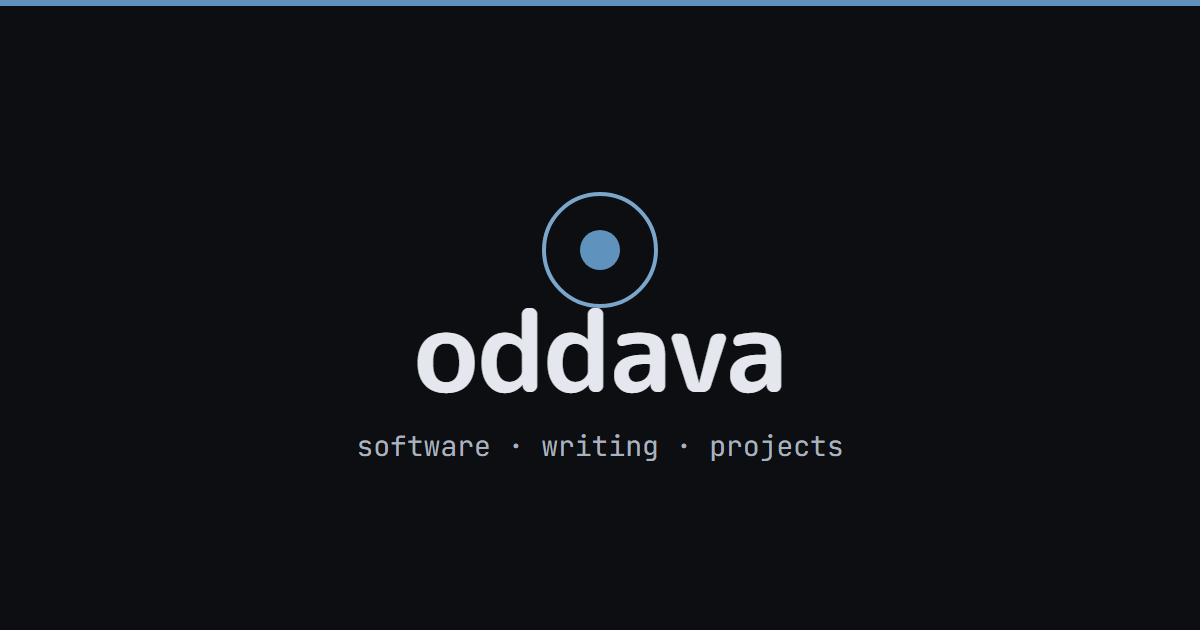
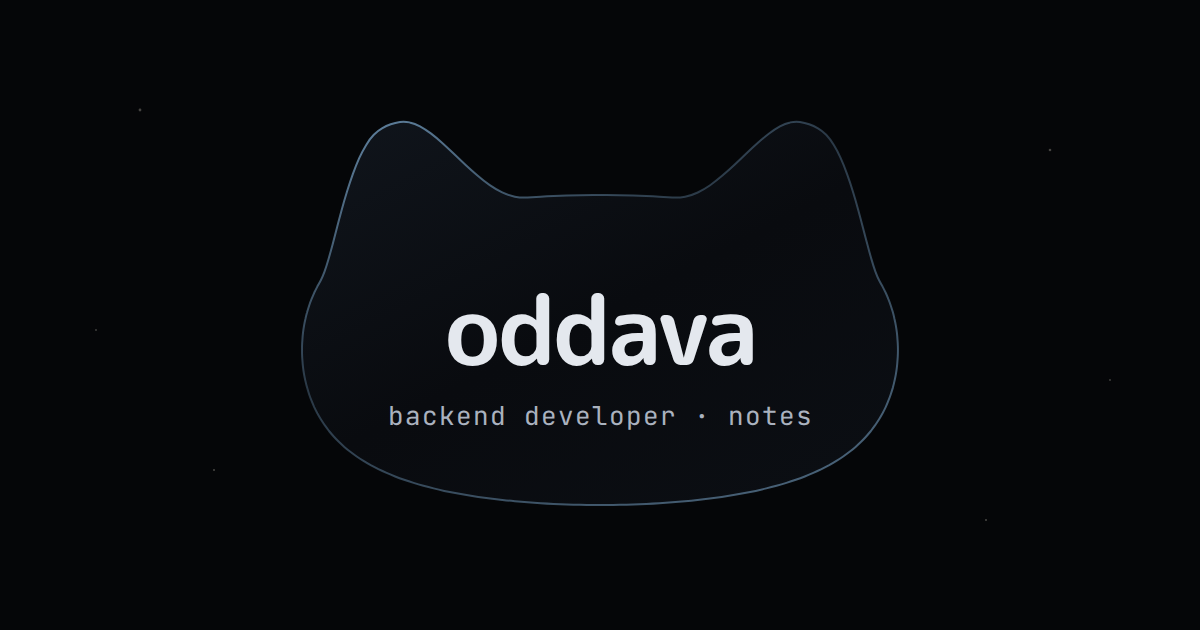
feat(site): describe the author one way across titles, meta and feed
Add SITE_ROLE and SITE_TITLE in lib/site.ts and derive the site
description, note fallback description and new NOTES_DESCRIPTION from
them, so every page, card and feed says the same thing.

- page titles use "Page — oddava"; the homepage uses SITE_TITLE
- homepage emits WebSite/Person JSON-LD linking the GitHub and X profiles
- RSS channel title and description use the shared copy
- error pages, about, links, notes, graph and tag pages get plain
  sentence-case titles and descriptions
- links profile bio and the default OG image follow the new role
- remove the /now page, which nothing links to any more

diff --git a/src/lib/site.ts b/src/lib/site.ts
@@ -1,8 +1,13 @@
 export const SITE_NAME = 'oddava';
+/** The one way the site describes its author; every page, card and feed reuses it. */
+export const SITE_ROLE = 'backend developer';
+/** The homepage title, and what search results and link previews lead with. */
+export const SITE_TITLE = `${SITE_NAME} — ${SITE_ROLE}`;
 export const SITE_URL = 'https://oddava.me';
-export const SITE_DESCRIPTION = 'the notebook i keep out in the open.';
+export const SITE_DESCRIPTION = `${SITE_NAME} is a ${SITE_ROLE}. Notes on the software I build, the books I read, and what I learn along the way.`;
 /** Stands in for a note that never wrote its own summary. */
-export const NOTE_FALLBACK_DESCRIPTION = 'a note from oddava’s digital garden.';
+export const NOTE_FALLBACK_DESCRIPTION = `A note by ${SITE_NAME}, a ${SITE_ROLE}.`;
+export const NOTES_DESCRIPTION = `Notes from ${SITE_NAME}: project write-ups, reading notes, and things worth remembering.`;
 export const SITE_AUTHOR_NAME = 'oddava';
 export const SITE_TWITTER_HANDLE = '@oddava';
 

diff --git a/src/pages/rss.xml.ts b/src/pages/rss.xml.ts
@@ -5,7 +5,7 @@
 import type { APIRoute } from 'astro';
 import { getGardenIndexOrUnavailable } from '../lib/garden';
 import { isStorageUnavailableError } from '../lib/server/core';
-import { SITE_NAME, SITE_URL, siteUrl } from '../lib/site';
+import { NOTES_DESCRIPTION, SITE_NAME, SITE_URL, siteUrl } from '../lib/site';
 
 function escapeXml(value: string): string {
   return value
@@ -58,9 +58,9 @@ export const GET: APIRoute = async () => {
   const xml = `<?xml version="1.0" encoding="UTF-8"?>
 <rss version="2.0" xmlns:atom="http://www.w3.org/2005/Atom">
   <channel>
-    <title>${SITE_NAME}'s notes</title>
+    <title>${SITE_NAME} — notes</title>
     <link>${SITE_URL}</link>
-    <description>notes, half-formed and otherwise, from ${SITE_NAME}.</description>
+    <description>${escapeXml(NOTES_DESCRIPTION)}</description>
     <atom:link href="${siteUrl('/rss.xml')}" rel="self" type="application/rss+xml" />
     ${items}
   </channel>
